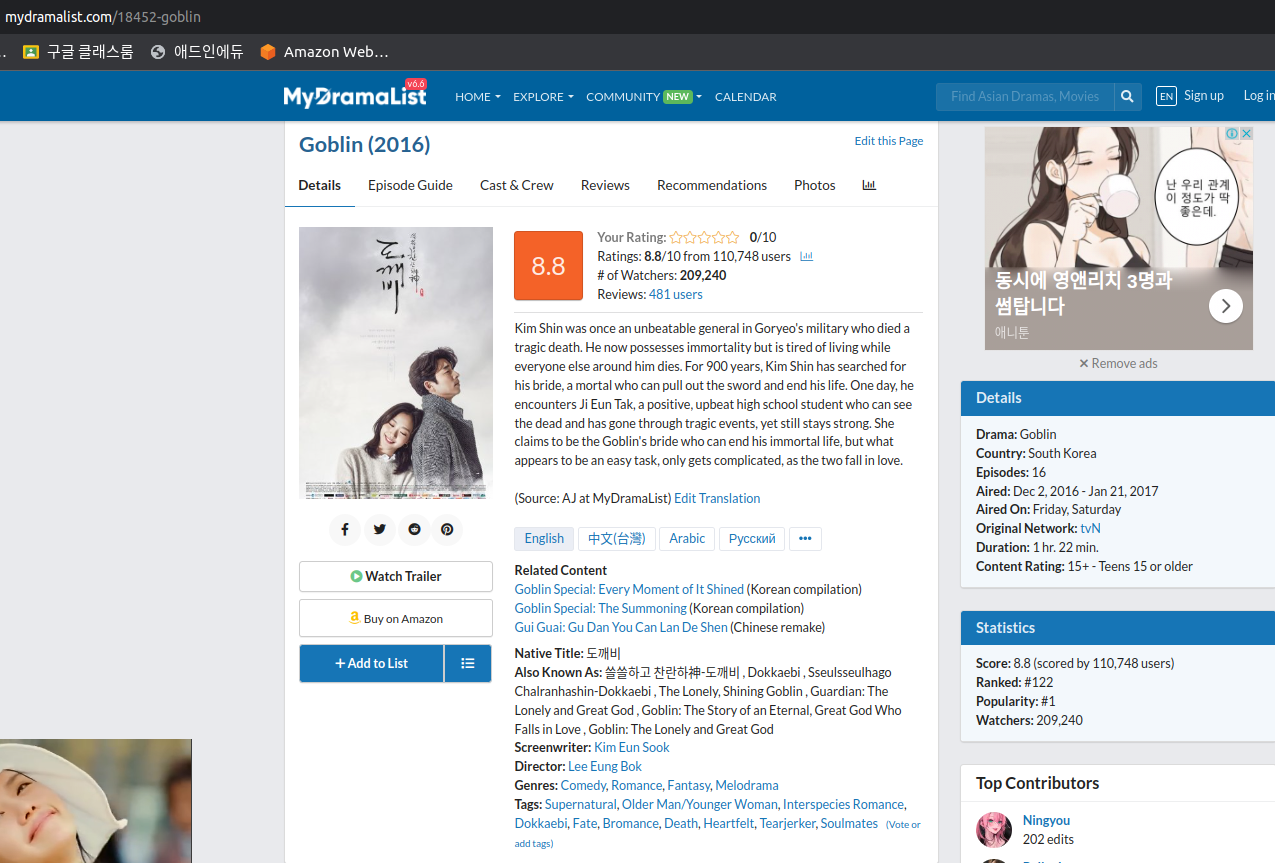
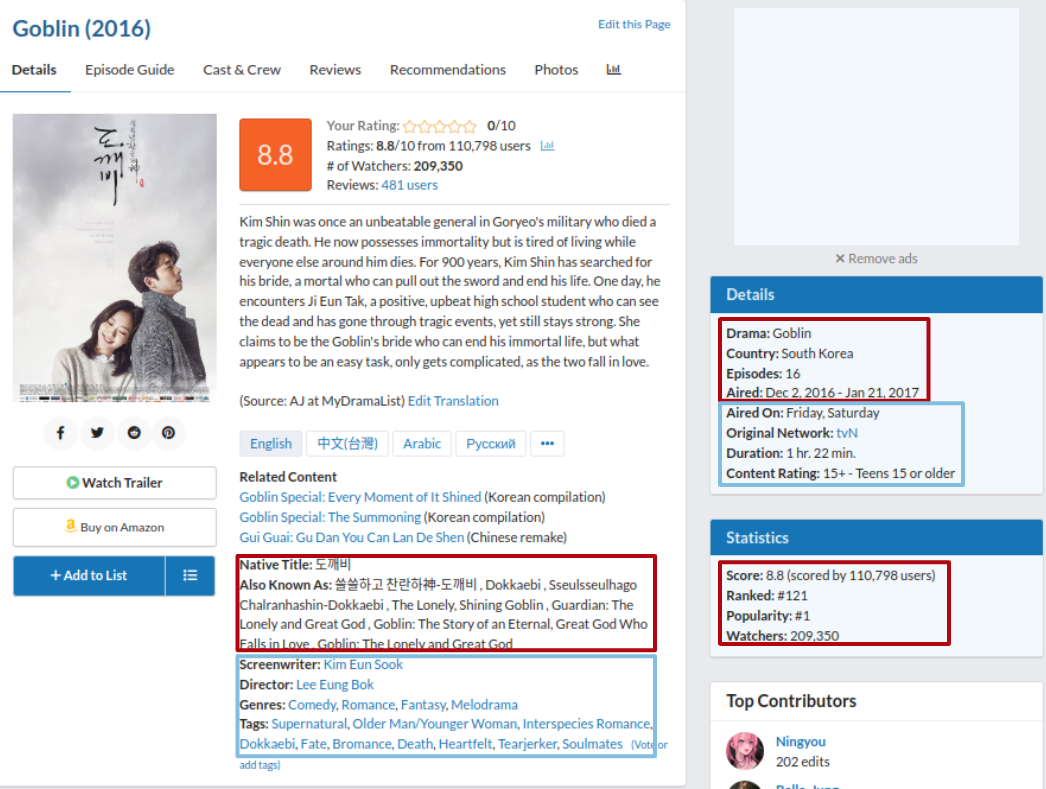
define README frame

diff --git a/README.md b/README.md
@@ -1,7 +1,64 @@
 # EDA 프로젝트 7조 저장소 / 칠면조 / 주제 : 2015-2023년 한국 드라마 분석
 ---
+
+## Project Description
+__[설명]__  
+> 해외에서 급성장 하고있는 K드라마.  
+오징어게임의 흥행 이후 OTT 플랫폼을 바탕으로 K드라마는 급속도로 성장 중이며 올해 4월에는 넷플릭스는 한국에 향후 4년간 25억 달러를 투자하겠다고 발표했다.  
+급속도로 성장하는 K드라마의 특징 등을 다방면적으로 분석한다. 
+
+__[주의사항]__
+> MyDramaList는 국제 사이트 중 한국 드라마의 정보를 가장 많이 담고 있는 사이트이지만 동아시아, 동남아시아 문화권의 커뮤니티임을 유의해야한다.
+
+__[목표]__  
+> K드라마에 대해 전반적으로 분석하여 어떤 특징의 드라마가 흥행하는지 알아본다.
+가능하면 추천 시스템 제작까지 진행.
+
+__[수집정보]__
+> ID, 영문명, 한글명, 출시년도, 디렉터, 작가, 제작국가, 영상타입, 에피소드수, 플레이타임(초), 방영시작일, 방영종료일, 방영요일, 중계플랫폼, 제한연령, 시놉시스, 순위, 인기순위, 장르, 시청자수, 평점, 기여자수
+> 
+> 총 22종
+
+__[분석방식]__
+> - 수집한 정보를 토대로 Feature별 인기도, 빈도수 분석.
+> - Feature별 상관관계 분석.
+> - 
+
+__[결과물]__
+> ㅁㄴㅇㄹ
+
+__[결론]__
+>- 동아시아, 동남아시아에서 한국 드라마의 인기에 큰 영향을 준 요소는 다음과 같다.
+> 1. 작가와 감독은 작품 인기에 긍정적 영향을 준다
+> 2. 액션, 판타지 장르는 전반적으로 많은 인기를 끌었다.
+> 3. 로맨스 장르는 꾸준히 인기를 끌어 흥행의 보증수표 같은 장르이다.
+> 4. 스토리성을 좋게 평가 받은 작품은 많은 인기를 끌었다.
+> 5. 방영요일은 인기에 영향을 주지 않는 요소이다.
+> 6. 청춘 드라마는 대체로 부진하며 흥행에 부정적인 영향을 준다.
+
+### Site
+
+- MyDramaList 사이트
+![Alt text](./images/MyDramaList.png)
+
+- 검색 리스트와 드라마 페이지는 크롤링을 막고 있지 않음.  
+![Alt text](./images/robots.png)
+
+- 드라마 리스트에는 다음과 같이 옵션을 지정할 수 있으며, url의 변수를 바꿔서 옵션을 바꿔줄 수 있음.
+![Alt text](./images/drama_list.png)
+![Alt text](./images/drama_list_url.png)
+
+### Detail
+
+![Alt text](./images/drama_page.png)
+(드라마의 상세 페이지)
+- 빨간색 박스는 고정적으로 있는 정보
+- 파란 박스는 유동적으로 존재하는 정보
+
+---
+
 ## Requires
-- [주요 라이브러리]  
+__[주요 라이브러리]__
 ```python
 Python 3.10.12  
 Pandas 2.0.3  
@@ -14,7 +71,7 @@ scikit-learn 1.2.1
 WordCloud 1.9.2  
 ```
 
-- [부가 라이브러리]  
+__[부가 라이브러리]__
 ```python
 missingno  
 koreanize_matplotlib  
@@ -60,40 +117,12 @@ mysql
 9. ```recommender_systems.ipynb```  - 한승준
 > 드라마, 영화 추천 GUI 시스템 (with TF-IDF, Vader)
 
----
+
 ### trashcan
 > 각자의 노력이 담겨있는 코드, 데이터들의 무덤
 
----
 
 ### etc
 
 1. ```한국드라마분석_7조(칠면조).pptx```
 > 2023.09.14에 발표한 PPT
-
----
-## Description
-__[설명]__  
-해외에서 급성장 하고있는 K드라마.  
-오징어게임의 흥행 이후 OTT 플랫폼을 바탕으로 K드라마는 급속도로 성장 중이며 올해 4월에는 넷플릭스는 한국에 향후 4년간 25억 달러를 투자하겠다고 발표했다.  
-급속도로 성장하는 K드라마의 특징 등을 다방면적으로 분석한다.  
-
-__[목표]__  
-K드라마에 대해 전반적으로 분석하여 어떤 특징의 드라마가 흥행하는지 알아본다.
-가능하면 추천 시스템 제작까지 진행.
-
-### Sites
-
-- MyDramaList 사이트
-![Alt text](./images/MyDramaList.png)
-
-- 검색 리스트와 드라마 페이지는 크롤링을 막고 있지 않음.
-![Alt text](./images/robots.png)
-
-- 드라마 리스트에는 다음과 같이 옵션을 지정할 수 있으며, url의 변수를 바꿔서 옵션을 바꿔줄 수 있음.
-![Alt text](./images/drama_list.png)
-![Alt text](./images/drama_list_url.png)
-
-### Detail
-
-![Alt text](./images/drama_webpage.png)
